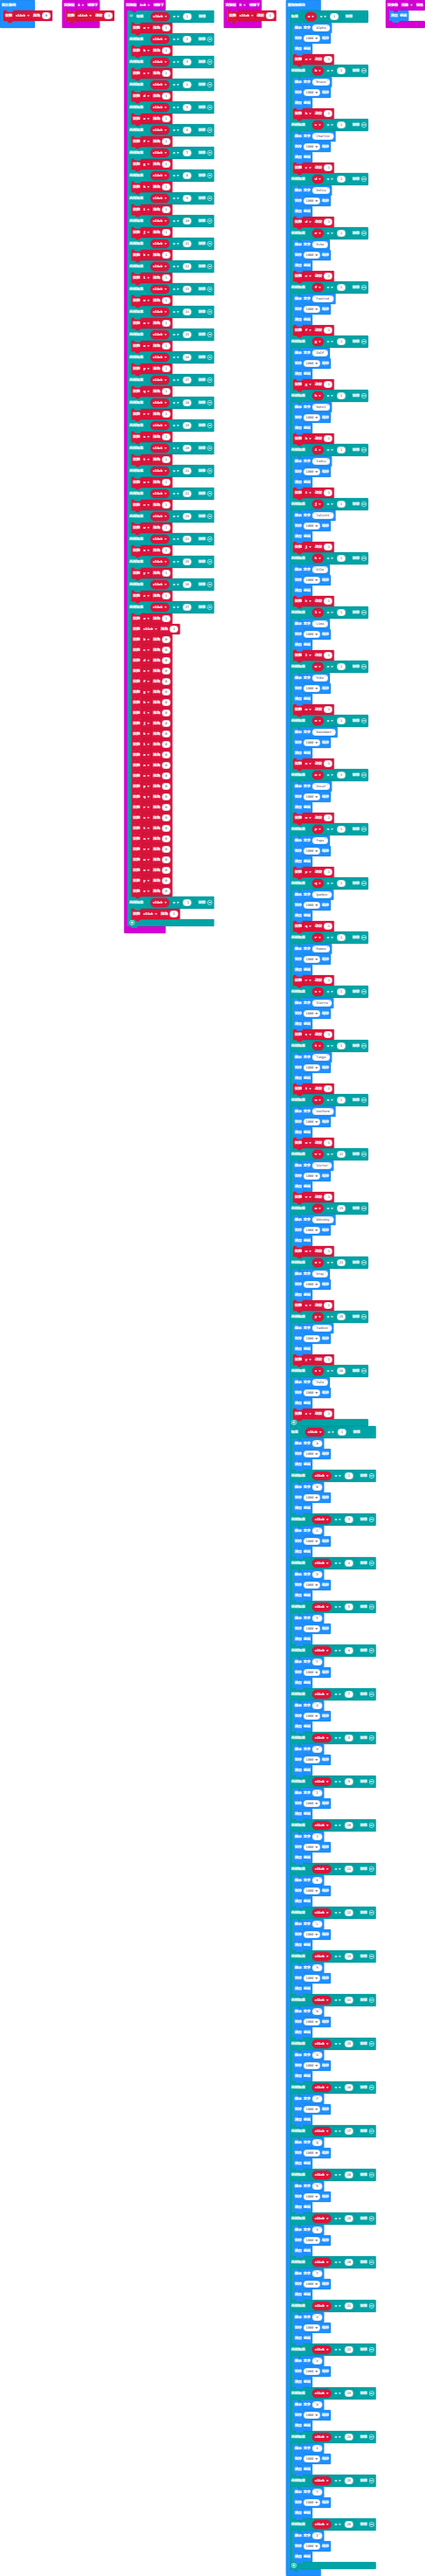
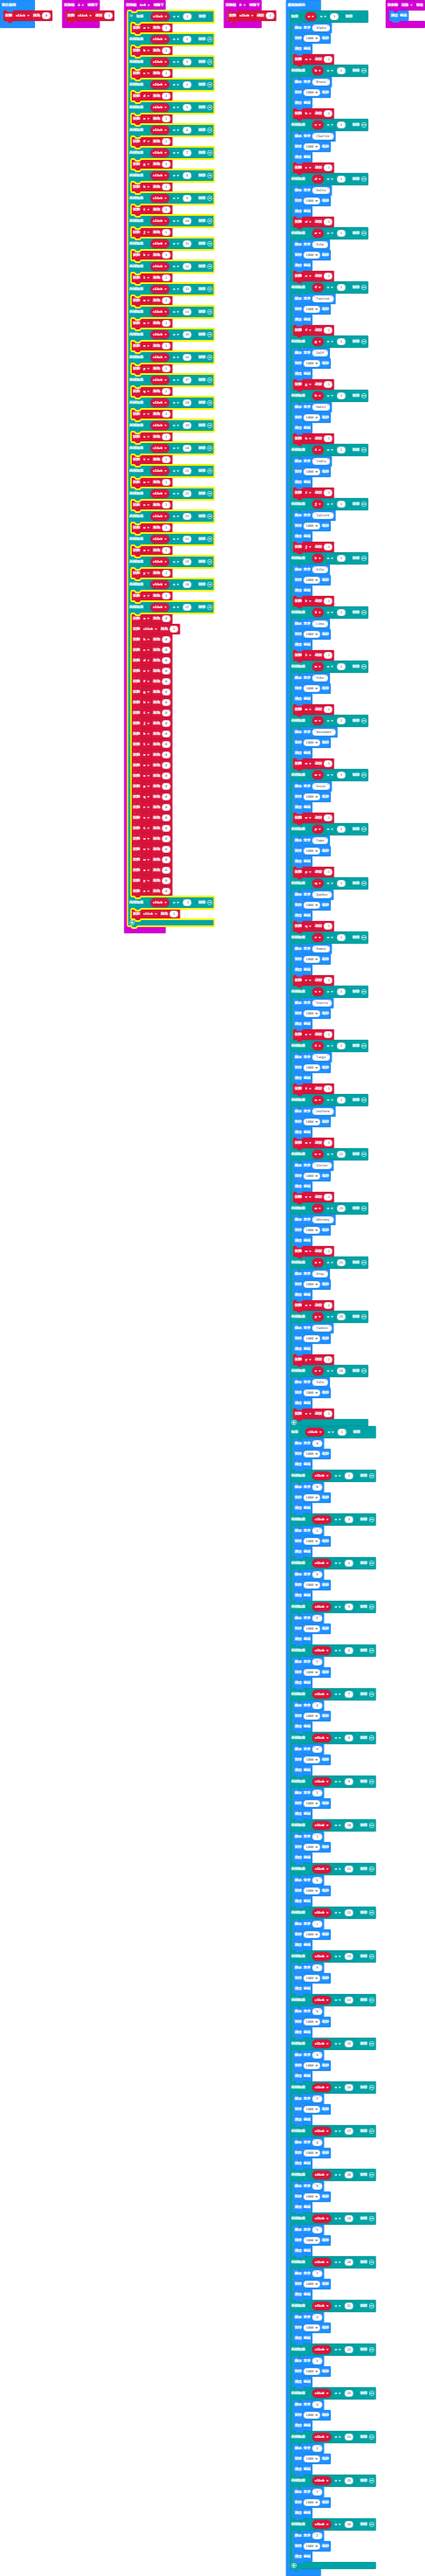
更新 main.blocks, main.ts

Changed region(s): [[0.2772, 0.0, 0.5236, 0.3433], [0.308, 0.3433, 0.3388, 0.3745]]

diff --git a/main.ts b/main.ts
@@ -60,7 +60,7 @@ input.onButtonPressed(Button.AB, function () {
     } else if (click == 26) {
         z = 1
     } else if (click == 27) {
-        a = 1
+        a = 0
         click = 1
         b = 0
         c = 0
